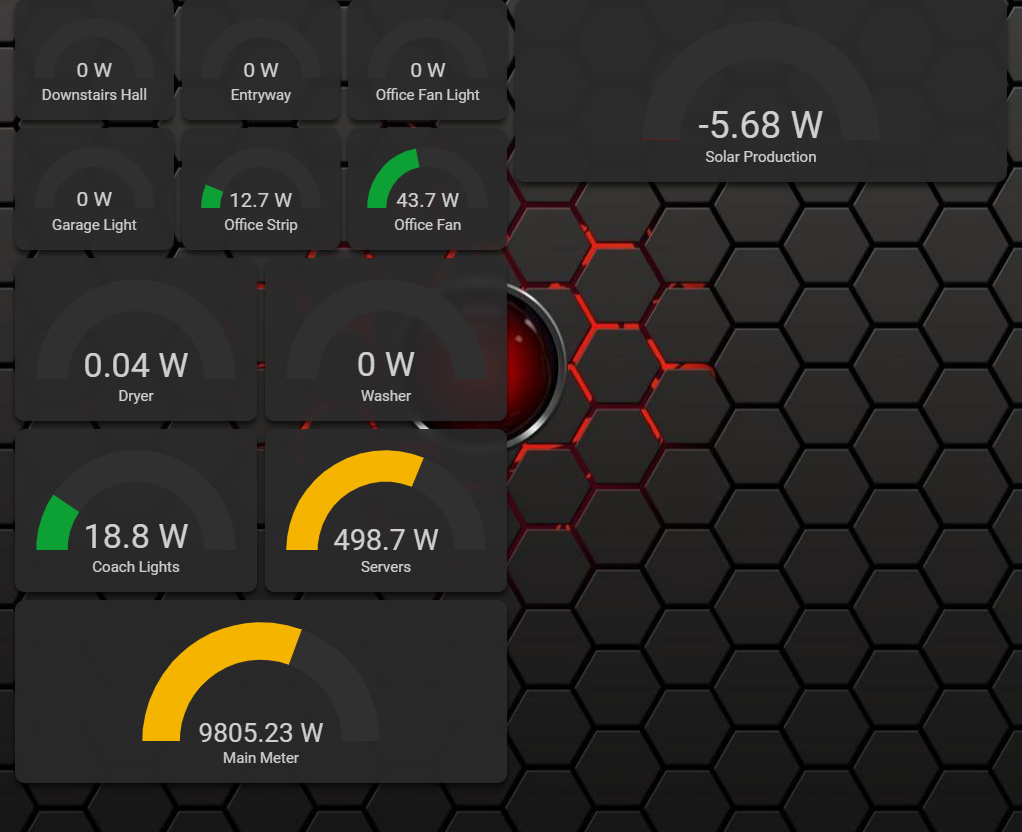
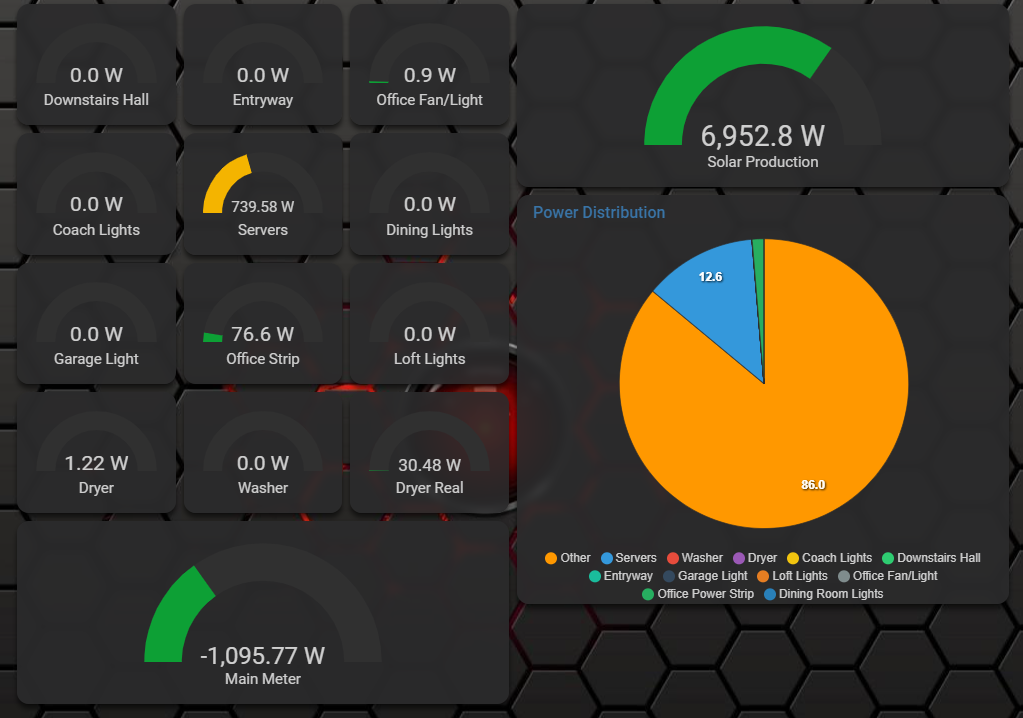
Update meters tab

diff --git a/README.md b/README.md
@@ -10,6 +10,7 @@ Resources:<br/>
 [decluttering-card](https://github.com/custom-cards/decluttering-card)<br/>
 [lovelace-card-mod](https://github.com/thomasloven/lovelace-card-mod)<br/>
 [lovelace-animated-background](https://github.com/Villhellm/lovelace-animated-background)<br/>
+[apexcharts-card](https://github.com/RomRider/apexcharts-card)<br/>
 
 ## Home View
 
@@ -60,7 +61,8 @@ Sensors from [homeassistant-openmediavault](https://github.com/tomaae/homeassist
 <img src="https://github.com/firstof9/my-ha-config/raw/master/images/lights-tab.png">
 
 ## Meters View
-
+Cards:<br/>
+[apexcharts-card](https://github.com/RomRider/apexcharts-card)<br/>
 <img src="https://github.com/firstof9/my-ha-config/raw/master/images/meters-tab.png">
 
 ## Utilities View
